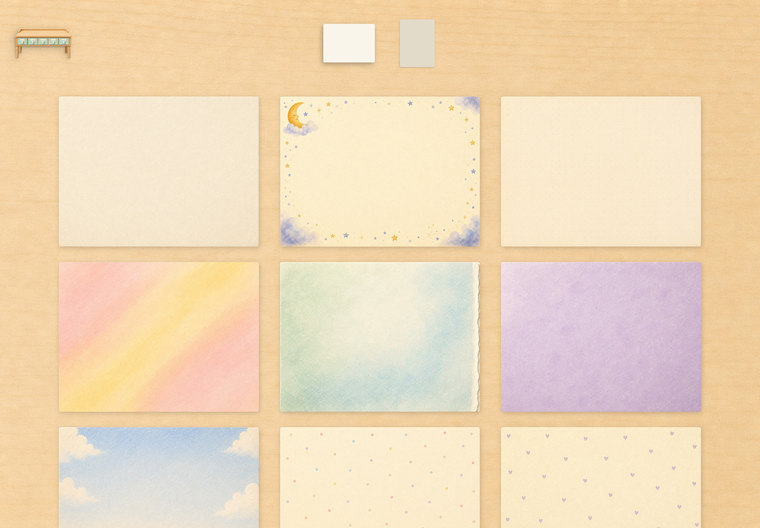
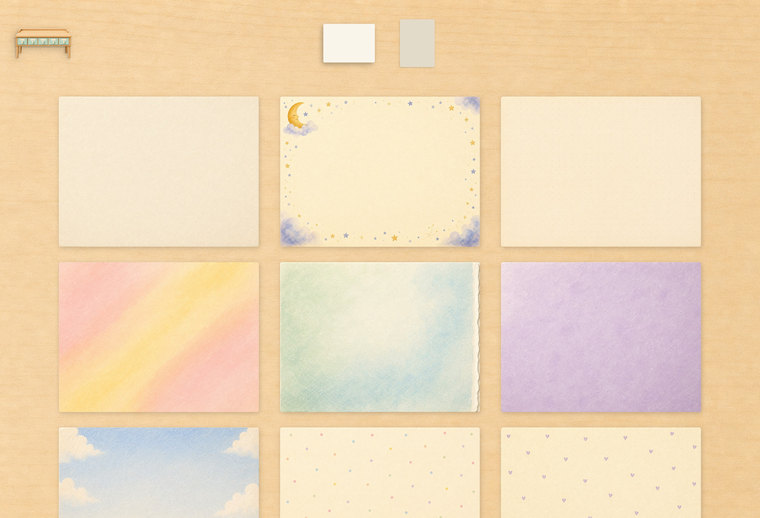
Trim iOS's home indicator out of the step row
The black bar under the stamp tray was the system home indicator, not app
chrome. Only the send screen rendered it, but all three panels are cut by the
same 32px: trimming one alone would change its aspect and stagger the row that
the shared aspect exists to keep even.

Panels are now 2360x1608 at source, 760x518 shipped.

diff --git a/index.html b/index.html
@@ -51,20 +51,25 @@
 
          WHOLE screens, not crops. Cropping in read as accidental framing — the
          panels looked like details of something rather than the thing itself.
-         All three are full 11-inch captures (2360x1640), so they share an
+         All three are 11-inch captures trimmed to 2360x1608, so they share an
          aspect and the captions sit on one line; mixing the 13-inch (4:3) in
-         here would leave one panel short and stagger the captions. -->
+         here would leave one panel short and stagger the captions.
+
+         The 32px trimmed off the bottom is iOS's home indicator, which showed
+         as a black bar under the stamp tray. Only the send screen rendered it,
+         but ALL THREE are cut by the same amount — trimming just the one would
+         change its aspect and stagger the row it was meant to keep even. -->
     <section class="steps">
       <figure>
-        <img src="assets/step-paper.jpg" alt="A grid of letter papers to choose from — plain cream, a moonlit sky, a rainbow wash and a green-blue wash" width="760" height="528" />
+        <img src="assets/step-paper.jpg" alt="A grid of letter papers to choose from — plain cream, a moonlit sky, a rainbow wash and a green-blue wash" width="760" height="518" />
         <figcaption>Choose your paper.</figcaption>
       </figure>
       <figure>
-        <img src="assets/step-writing.jpg" alt="A letter being handwritten on moonlit paper with a sleepy moon in the corner" width="760" height="528" />
+        <img src="assets/step-writing.jpg" alt="A letter being handwritten on moonlit paper with a sleepy moon in the corner" width="760" height="518" />
         <figcaption>Write your letter.</figcaption>
       </figure>
       <figure>
-        <img src="assets/step-stamp.jpg" alt="A lavender envelope addressed to Iris with a star stamp on it, a tray of stamps below and the postbox waiting" width="760" height="528" />
+        <img src="assets/step-stamp.jpg" alt="A lavender envelope addressed to Iris with a star stamp on it, a tray of stamps below and the postbox waiting" width="760" height="518" />
         <figcaption>Stamp it and send.</figcaption>
       </figure>
     </section>
